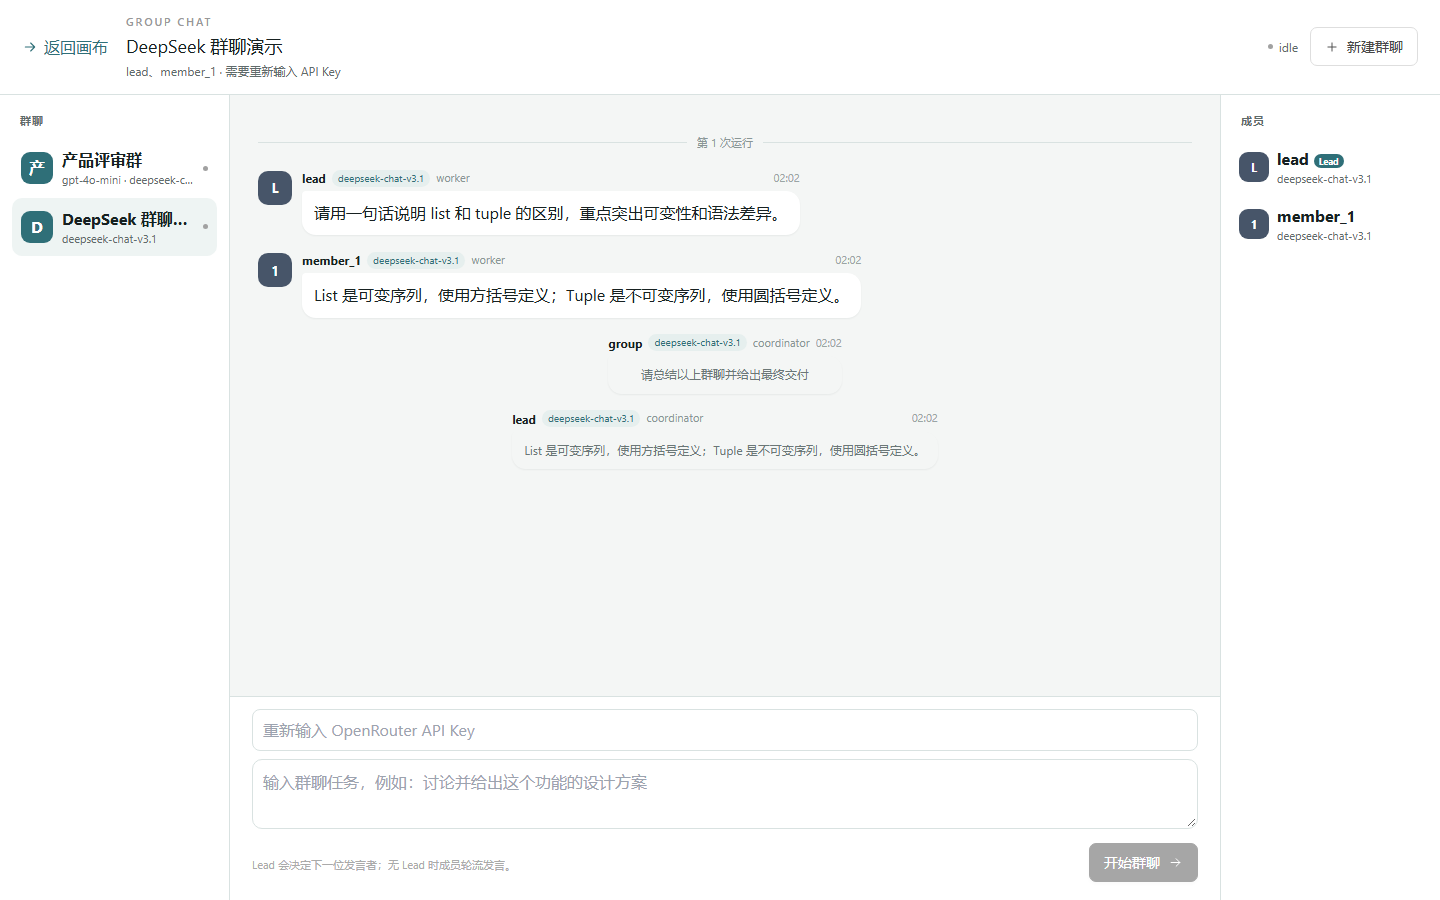
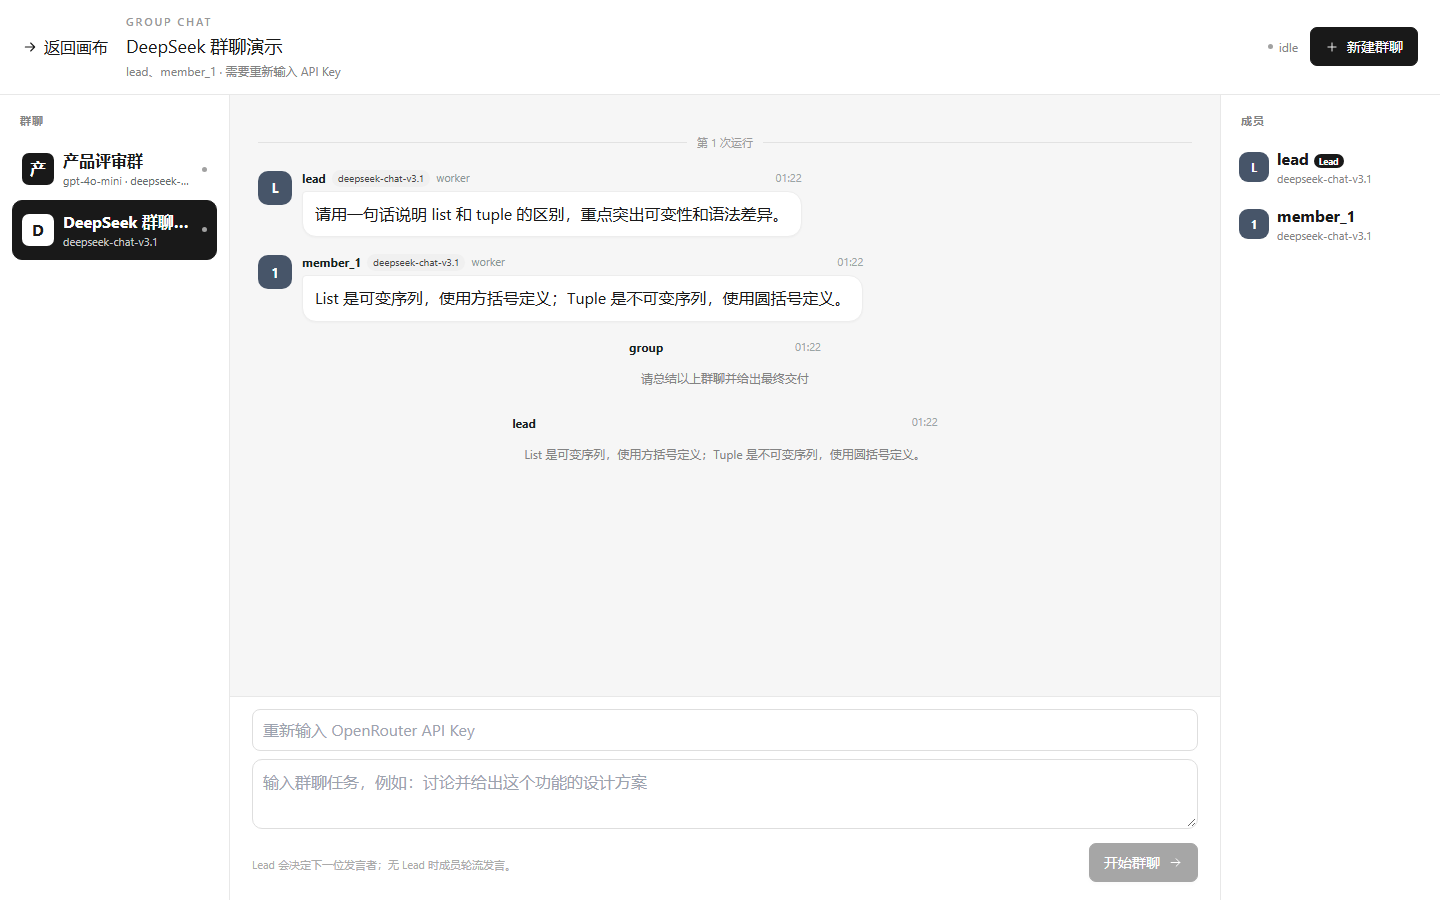
feat(group-chat): align theme, searchable models and finish review items

diff --git a/frontend/src/components/GroupChatPage.vue b/frontend/src/components/GroupChatPage.vue
@@ -47,8 +47,17 @@
             <button v-if="hasEarlier" class="gc-earlier" type="button" @click="loadEarlier">
               加载更早消息
             </button>
-            <div v-if="!timeline.length" class="gc-messages-empty">
-              <p>输入任务后开始群聊；每轮发言会显示在这里。</p>
+            <div v-if="!timeline.length" class="gc-empty-chat">
+              <div class="gc-avatar-stack">
+                <div v-for="member in members.slice(0, 4)" :key="member.name" class="gc-avatar" :style="{ background: avatarFor(member.name, member.model).color }">
+                  {{ avatarFor(member.name, member.model).initials }}
+                </div>
+              </div>
+              <h2>开始一场多模型讨论</h2>
+              <p>每个成员使用不同模型，Lead 负责分派与总结。输入任务后，他们的讨论会显示在这里。</p>
+              <div class="gc-empty-chips">
+                <span v-for="member in members" :key="member.name">{{ modelLabel(member.model) }}</span>
+              </div>
             </div>
             <template v-for="item in timeline" :key="item.id">
               <div v-if="item.type === 'divider'" class="gc-run-divider">
@@ -66,7 +75,11 @@
                     <time>{{ formatTime(item.timestamp) }}</time>
                   </header>
                   <div class="gc-bubble">
-                    <p>{{ item.content }}</p>
+                    <details v-if="item.kind === 'tool' && item.rawContent" class="gc-tool-details">
+                      <summary>{{ item.content }}</summary>
+                      <pre>{{ item.rawContent }}</pre>
+                    </details>
+                    <p v-else>{{ item.content }}</p>
                   </div>
                 </div>
               </article>
@@ -89,7 +102,7 @@
               v-model="apiKey"
               type="password"
               class="gc-key"
-              placeholder="重新输入 OpenRouter API Key"
+              :placeholder="`重新输入 ${keyLabel} API Key`"
               autocomplete="off"
             />
             <textarea v-model="task" rows="2" placeholder="输入群聊任务，例如：讨论并给出这个功能的设计方案" :disabled="running"></textarea>
@@ -149,6 +162,10 @@ const groupWorkflows = computed(() => (workflowStore.workflows || []).filter(wor
 const selected = computed(() => groupWorkflows.value.find(workflow => workflow.workflow_id === selectedId.value) || null)
 const members = computed(() => selected.value?.agents || [])
 const membersText = computed(() => members.value.length ? members.value.map(member => member.name).join('、') : '共享群聊')
+const keyLabel = computed(() => {
+  const provider = selected.value?.connection?.provider || 'openrouter'
+  return { openrouter: 'OpenRouter', openai: 'OpenAI', anthropic: 'Anthropic', deepseek: 'DeepSeek' }[provider] || provider
+})
 const messages = computed(() => rawMessages.value.filter(message => message.kind))
 const timeline = computed(() => {
   const items = []
@@ -392,4 +409,46 @@ onBeforeUnmount(clearPoll)
   .gc-body { grid-template-columns: 180px minmax(0, 1fr); }
   .gc-members { display: none; }
 }
+
+/* Align the full-screen page with AgentFlow's white/black workbench theme. */
+.gc-page { background: #fff; color: #191919; }
+.gc-header { background: #fff; border-bottom-color: #e8e8e8; }
+.gc-back { color: #191919; }
+.gc-title p, .gc-status, .gc-sidebar-heading, .gc-member small { color: #838383; }
+.gc-body { background: #fff; }
+.gc-sidebar { background: #fff; border-right-color: #e8e8e8; }
+.gc-members { background: #fff; border-left-color: #e8e8e8; }
+.gc-room { background: #f6f6f6; }
+.gc-group { border: 1px solid transparent; }
+.gc-group:hover { background: #f6f6f6; }
+.gc-group.selected { background: #191919; color: #fff; border-color: #191919; }
+.gc-group.selected small { color: #c9c9c9; }
+.gc-group-avatar { background: #191919; border-radius: 7px; }
+.gc-group.selected .gc-group-avatar { background: #fff; color: #191919; }
+.gc-messages { scrollbar-width: thin; scrollbar-color: #c9c9c9 transparent; overscroll-behavior: contain; scroll-behavior: smooth; }
+.gc-messages::-webkit-scrollbar { width: 8px; }
+.gc-messages::-webkit-scrollbar-thumb { background: #d2d2d2; border-radius: 999px; }
+.gc-bubble { background: #fff; border: 1px solid #ededed; box-shadow: 0 1px 2px #00000008; }
+.gc-model { background: #f0f0f0; color: #444; }
+.gc-message.system .gc-bubble { background: transparent; border: 0; box-shadow: none; color: #838383; }
+.gc-message.tool .gc-bubble { background: #fff; border: 1px dashed #cfcfcf; }
+.gc-tool-details summary { cursor: pointer; color: #191919; font-weight: 600; }
+.gc-tool-details pre { margin: 8px 0 0; max-height: 220px; overflow: auto; white-space: pre-wrap; color: #666; font: 11px/1.5 ui-monospace, Consolas, monospace; }
+.gc-run-divider { color: #9a9a9a; }
+.gc-run-divider::before, .gc-run-divider::after { background: #e2e2e2; }
+.gc-earlier { border-color: #dedede; color: #191919; background: #fff; }
+.gc-composer { background: #fff; border-top-color: #e8e8e8; }
+.gc-composer textarea, .gc-key { border-color: #dedede; background: #fff; }
+.gc-composer textarea:focus, .gc-key:focus { outline: none; border-color: #191919; box-shadow: 0 0 0 3px #1919190d; }
+.gc-composer-actions .btn-primary { background: #191919; border-color: #191919; color: #fff; }
+.gc-header-actions .btn-secondary { background: #191919; border-color: #191919; color: #fff; }
+.gc-header-actions .btn-secondary:hover { background: #333; }
+.gc-lead { background: #191919; }
+.gc-empty-chat { margin: auto; max-width: 430px; padding: 36px 22px; text-align: center; color: #666; }
+.gc-empty-chat h2 { margin: 16px 0 6px; color: #191919; font-size: 17px; }
+.gc-empty-chat p { margin: 0; line-height: 1.8; font-size: 12px; }
+.gc-avatar-stack { display: flex; justify-content: center; }
+.gc-avatar-stack .gc-avatar { margin: 0 -5px; border: 3px solid #f6f6f6; }
+.gc-empty-chips { display: flex; flex-wrap: wrap; justify-content: center; gap: 6px; margin-top: 16px; }
+.gc-empty-chips span { padding: 3px 8px; border: 1px solid #e2e2e2; border-radius: 999px; background: #fff; color: #666; font-size: 10px; }
 </style>

diff --git a/frontend/src/components/AppSelect.vue b/frontend/src/components/AppSelect.vue
@@ -13,7 +13,17 @@
         <div v-if="open" :id="listId" ref="panel" class="select-popover" :class="{ 'opens-above': above }"
           :style="position" role="listbox" :aria-label="label">
           <div class="select-menu-caption">{{ label }}</div>
-          <div v-for="(option, index) in options" :id="optionId(index)" :key="option.value" role="option"
+          <input
+            ref="searchInput"
+            v-model="filter"
+            class="select-search"
+            type="search"
+            :placeholder="`搜索${label}`"
+            aria-label="搜索选项"
+            @click.stop
+            @keydown.stop
+          />
+          <div v-for="(option, index) in filteredOptions" :id="optionId(index)" :key="option.value" role="option"
             class="select-option" :class="{ 'is-active': active === index, 'is-selected': option.value === modelValue }"
             :aria-selected="option.value === modelValue" @pointermove="active = index" @pointerdown.prevent @click="choose(index)">
             <span v-if="option.symbol" class="select-symbol">{{ option.symbol }}</span>
@@ -47,8 +57,19 @@ const open = ref(false)
 const active = ref(-1)
 const above = ref(false)
 const position = ref({})
+const filter = ref('')
+const searchInput = ref(null)
 const listId = computed(() => props.id + '-listbox')
 const selected = computed(() => props.options.find(option => option.value === props.modelValue))
+const filteredOptions = computed(() => {
+  const query = filter.value.trim().toLowerCase()
+  if (!query) return props.options
+  return props.options.filter(option =>
+    String(option.label || '').toLowerCase().includes(query)
+    || String(option.value || '').toLowerCase().includes(query)
+    || String(option.description || '').toLowerCase().includes(query)
+  )
+})
 let search = ''
 let searchTimer
 const optionId = index => props.id + '-option-' + index
@@ -59,7 +80,7 @@ function updatePosition() {
   if (bounds.bottom < 0 || bounds.top > window.innerHeight) { open.value = false; return }
   const below = window.innerHeight - bounds.bottom - 12
   const upper = bounds.top - 12
-  const desired = Math.min(340, props.options.length * 59 + 40)
+  const desired = Math.min(340, filteredOptions.value.length * 59 + 40)
   above.value = below < desired && upper > below
   const width = Math.min(bounds.width, window.innerWidth - 24)
   position.value = {
@@ -83,14 +104,16 @@ async function scrollActive() {
 }
 function show() {
   if (props.disabled || !props.options.length) return
-  active.value = Math.max(0, props.options.findIndex(option => option.value === props.modelValue))
+  filter.value = ''
+  active.value = Math.max(0, filteredOptions.value.findIndex(option => option.value === props.modelValue))
   open.value = true
   updatePosition()
   scrollActive()
+  nextTick(() => searchInput.value?.focus({ preventScroll: true }))
 }
 function toggle() { if (open.value) open.value = false; else show() }
 function choose(index) {
-  const option = props.options[index]
+  const option = filteredOptions.value[index]
   if (!option) return
   emit('update:modelValue', option.value)
   open.value = false
@@ -108,8 +131,8 @@ function onKeydown(event) {
     event.preventDefault()
     if (!open.value) {
       show()
-      if (event.key === 'Home' || event.key === 'End') active.value = moveOptionIndex(active.value, props.options.length, event.key)
-    } else active.value = moveOptionIndex(active.value, props.options.length, event.key)
+      if (event.key === 'Home' || event.key === 'End') active.value = moveOptionIndex(active.value, filteredOptions.value.length, event.key)
+    } else active.value = moveOptionIndex(active.value, filteredOptions.value.length, event.key)
     scrollActive()
     return
   }
@@ -123,8 +146,8 @@ function onKeydown(event) {
     if (!open.value) show()
     clearTimeout(searchTimer)
     search += event.key
-    let match = findOptionMatch(props.options, search, active.value)
-    if (match < 0) { search = event.key; match = findOptionMatch(props.options, search, active.value) }
+    let match = findOptionMatch(filteredOptions.value, search, active.value)
+    if (match < 0) { search = event.key; match = findOptionMatch(filteredOptions.value, search, active.value) }
     if (match >= 0) { active.value = match; scrollActive() }
     searchTimer = setTimeout(() => { search = '' }, 550)
   }
@@ -143,9 +166,16 @@ watch(open, isOpen => {
     removeListeners()
     clearTimeout(searchTimer)
     search = ''
+    filter.value = ''
   }
 })
+watch(filter, () => { active.value = 0; scrollActive() })
 watch(() => props.disabled, disabled => { if (disabled) open.value = false })
-watch(() => props.options, () => { if (open.value) { active.value = Math.max(0, props.options.findIndex(option => option.value === props.modelValue)); updatePosition(); scrollActive() } })
+watch(() => props.options, () => { if (open.value) { active.value = Math.max(0, filteredOptions.value.findIndex(option => option.value === props.modelValue)); updatePosition(); scrollActive() } })
 onBeforeUnmount(() => { removeListeners(); clearTimeout(searchTimer) })
 </script>
+
+<style scoped>
+.select-search { width: calc(100% - 20px); margin: 0 10px 8px; padding: 7px 9px; border: 1px solid #d9d9d9; border-radius: 6px; font: inherit; font-size: 12px; outline: none; }
+.select-search:focus { border-color: #191919; }
+</style>

diff --git a/frontend/src/App.vue b/frontend/src/App.vue
@@ -149,24 +149,36 @@ const canvas = ref(null)
 const toast = ref(null)
 const confirm = ref(null)
 const historyPanel = ref(null)
-const groupChatOpen = ref(window.location.hash.startsWith('#group-chat'))
+const groupChatOpen = ref(isGroupChatHash(window.location.hash))
 const groupChatWorkflowId = ref(window.location.hash.split('/')[1] || '')
+let groupChatPushed = false
 const { height: timelineHeight, minHeight: timelineMinHeight, maxHeight: timelineMaxHeight, resizing: timelineResizing, beginResize: beginTimelineResize, moveResize: moveTimelineResize, endResize: endTimelineResize, onResizeKey: onTimelineResizeKey, resetHeight: resetTimelineHeight, fitViewport: fitTimelineViewport } = useTimelineResize()
 const patternName = computed(() => workflowPatternLabels[workflowStore.currentWorkflow?.pattern] || '未设置模式')
 
+function isGroupChatHash(hash) {
+  return hash === '#group-chat' || hash.startsWith('#group-chat/')
+}
 function groupChatHash(workflowId = '') {
   return workflowId ? `#group-chat/${workflowId}` : '#group-chat'
 }
 function openGroupChat(workflowId = '') {
   groupChatOpen.value = true
   groupChatWorkflowId.value = workflowId
-  window.history.pushState({ groupChat: true }, '', groupChatHash(workflowId))
+  if (!isGroupChatHash(window.location.hash)) {
+    window.history.pushState({ groupChat: true }, '', groupChatHash(workflowId))
+    groupChatPushed = true
+  } else {
+    window.history.replaceState({ groupChat: true }, '', groupChatHash(workflowId))
+  }
 }
 function closeGroupChat() {
   groupChatOpen.value = false
   groupChatWorkflowId.value = ''
-  if (window.location.hash.startsWith('#group-chat')) {
-    window.history.pushState({}, '', `${window.location.pathname}${window.location.search}`)
+  if (groupChatPushed) {
+    groupChatPushed = false
+    window.history.back()
+  } else if (isGroupChatHash(window.location.hash)) {
+    window.history.replaceState({}, '', `${window.location.pathname}${window.location.search}`)
   }
 }
 function onGroupSelect(workflowId) {
@@ -178,8 +190,9 @@ function onGroupCreate() {
   openCreateWorkflow({ pattern: 'group_chat' })
 }
 function syncGroupChatFromHash() {
-  groupChatOpen.value = window.location.hash.startsWith('#group-chat')
+  groupChatOpen.value = isGroupChatHash(window.location.hash)
   groupChatWorkflowId.value = groupChatOpen.value ? (window.location.hash.split('/')[1] || '') : ''
+  if (!groupChatOpen.value) groupChatPushed = false
 }
 
 function handleShortcut(event) {

diff --git a/frontend/src/components/CreateWorkflowDialog.vue b/frontend/src/components/CreateWorkflowDialog.vue
@@ -52,6 +52,7 @@
                     </div>
                   </div>
                   <p class="hint">群聊统一使用 OpenRouter；成员与 Lead 可选择不同模型，也可填写自定义 model id。</p>
+                  <p v-if="catalogSource === 'fallback'" class="hint">模型目录服务暂不可用，当前显示精选模型；可直接填写自定义 model id。</p>
                 </div>
               </section>
 
@@ -125,6 +126,7 @@ const showApiKey = ref(false)
 const dialog = ref(null)
 const nameInput = ref(null)
 const modelCatalog = ref([])
+const catalogSource = ref('')
 let previousFocus = null
 let previousOverflow = ''
 let disposed = false
@@ -181,8 +183,10 @@ async function loadModelCatalog() {
   try {
     const data = await modelService.getOpenRouterModels()
     modelCatalog.value = data?.models || []
+    catalogSource.value = data?.source || ''
   } catch {
     modelCatalog.value = []
+    catalogSource.value = 'fallback'
   }
   syncGroupModels()
 }

diff --git a/frontend/src/utils/workflowOptions.js b/frontend/src/utils/workflowOptions.js
@@ -104,5 +104,10 @@ export const modelOptions = {
     { value: 'qwen/qwen-2.5-72b-instruct', label: 'Qwen 2.5 72B', description: 'qwen/qwen-2.5-72b-instruct' },
     { value: 'x-ai/grok-2-1212', label: 'Grok 2', description: 'x-ai/grok-2-1212' },
     { value: 'mistralai/mistral-large', label: 'Mistral Large', description: 'mistralai/mistral-large' },
+    { value: 'meta-llama/llama-3.3-70b-instruct', label: 'Llama 3.3 70B', description: 'meta-llama/llama-3.3-70b-instruct' },
+    { value: 'moonshotai/kimi-k2', label: 'Kimi K2', description: 'moonshotai/kimi-k2' },
+    { value: 'z-ai/glm-4.5', label: 'GLM 4.5', description: 'z-ai/glm-4.5' },
+    { value: 'minimax/minimax-m2', label: 'MiniMax M2', description: 'minimax/minimax-m2' },
+    { value: 'cohere/command-a', label: 'Command A', description: 'cohere/command-a' },
   ],
 }

diff --git a/frontend/src/utils/groupChat.js b/frontend/src/utils/groupChat.js
@@ -65,6 +65,7 @@ export function formatGroupChatMessage(message) {
     sender,
     receiver,
     content,
+    rawContent: typeof message.content === 'string' ? message.content : '',
     timestamp,
     metadata: message.metadata || {},
     model: message.metadata?.model || '',

diff --git a/backend/agentflow/api/routes/models.py b/backend/agentflow/api/routes/models.py
@@ -8,7 +8,7 @@ from fastapi import APIRouter
 router = APIRouter()
 
 _CACHE_TTL_SECONDS = 600
-_cache: Dict[str, Any] = {"expires_at": 0.0, "payload": None}
+_cache: Dict[str, Any] = {"expires_at": 0.0, "payload": None, "retry_after": 0.0}
 
 FALLBACK_MODELS: List[Dict[str, Any]] = [
     {"id": "openai/gpt-4o", "name": "GPT-4o", "provider": "OpenAI",
@@ -25,6 +25,16 @@ FALLBACK_MODELS: List[Dict[str, Any]] = [
      "context_length": 131072, "pricing": {}, "supports_tools": True},
     {"id": "mistralai/mistral-large", "name": "Mistral Large", "provider": "Mistral",
      "context_length": 128000, "pricing": {}, "supports_tools": True},
+    {"id": "meta-llama/llama-3.3-70b-instruct", "name": "Llama 3.3 70B", "provider": "Meta",
+     "context_length": 128000, "pricing": {}, "supports_tools": True},
+    {"id": "moonshotai/kimi-k2", "name": "Kimi K2", "provider": "Moonshot",
+     "context_length": 128000, "pricing": {}, "supports_tools": True},
+    {"id": "z-ai/glm-4.5", "name": "GLM 4.5", "provider": "Zhipu",
+     "context_length": 128000, "pricing": {}, "supports_tools": True},
+    {"id": "minimax/minimax-m2", "name": "MiniMax M2", "provider": "MiniMax",
+     "context_length": 128000, "pricing": {}, "supports_tools": True},
+    {"id": "cohere/command-a", "name": "Command A", "provider": "Cohere",
+     "context_length": 256000, "pricing": {}, "supports_tools": True},
 ]
 
 
@@ -59,6 +69,8 @@ async def list_openrouter_models():
     now = time.time()
     if _cache["payload"] is not None and now < _cache["expires_at"]:
         return _cache["payload"]
+    if now < _cache["retry_after"]:
+        return {"models": FALLBACK_MODELS, "source": "fallback"}
 
     try:
         models = await _fetch_openrouter_models()
@@ -67,6 +79,8 @@ async def list_openrouter_models():
         result = {"models": models, "source": "remote"}
         _cache["payload"] = result
         _cache["expires_at"] = now + _CACHE_TTL_SECONDS
+        _cache["retry_after"] = 0.0
         return result
     except Exception:
+        _cache["retry_after"] = now + 60
         return {"models": FALLBACK_MODELS, "source": "fallback"}

diff --git a/backend/agentflow/api/routes/workflow.py b/backend/agentflow/api/routes/workflow.py
@@ -171,6 +171,7 @@ def _workflow_summary(workflow_id: str, executor: WorkflowExecutor) -> Dict[str,
         "pattern": executor.config.pattern.value,
         "status": executor.status,
         "requires_credentials": executor.requires_credentials,
+        "connection": executor.connection or {},
         "agents": _agent_summaries(executor),
     }
 

diff --git a/backend/tests/test_models_api.py b/backend/tests/test_models_api.py
@@ -10,9 +10,11 @@ from agentflow.api.routes import models
 def clear_cache():
     models._cache["expires_at"] = 0
     models._cache["payload"] = None
+    models._cache["retry_after"] = 0
     yield
     models._cache["expires_at"] = 0
     models._cache["payload"] = None
+    models._cache["retry_after"] = 0
 
 
 @pytest.fixture
